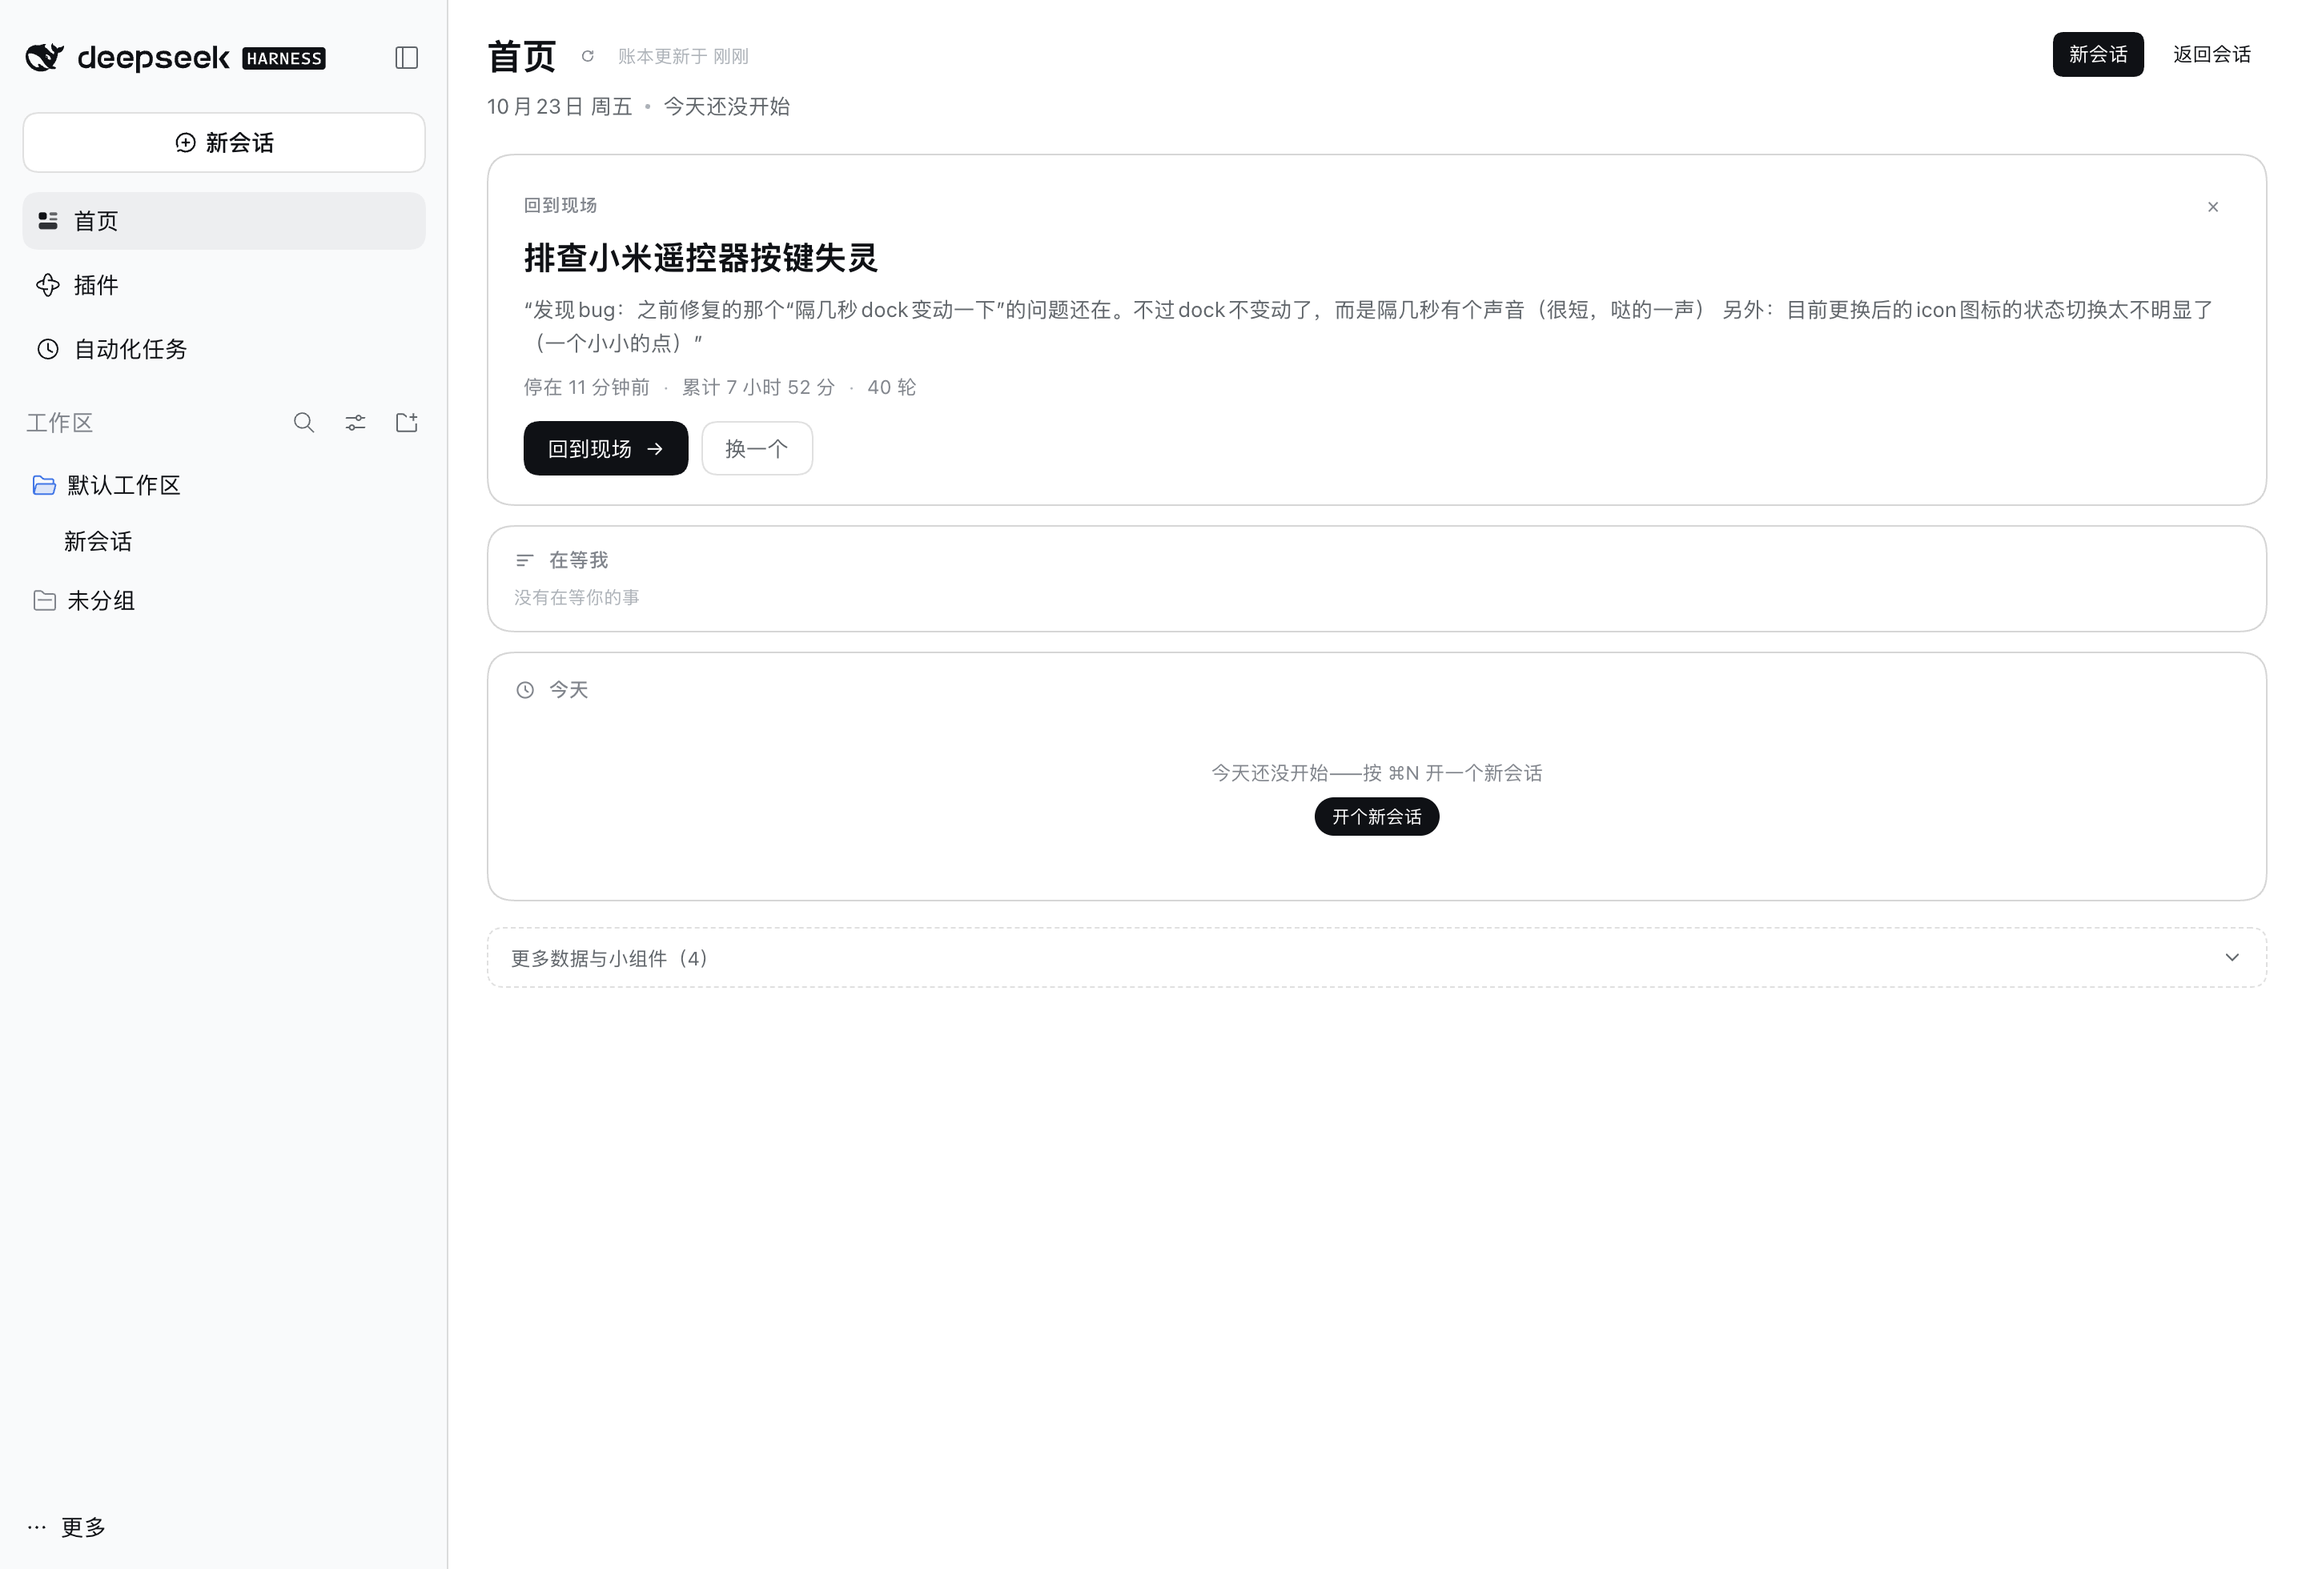
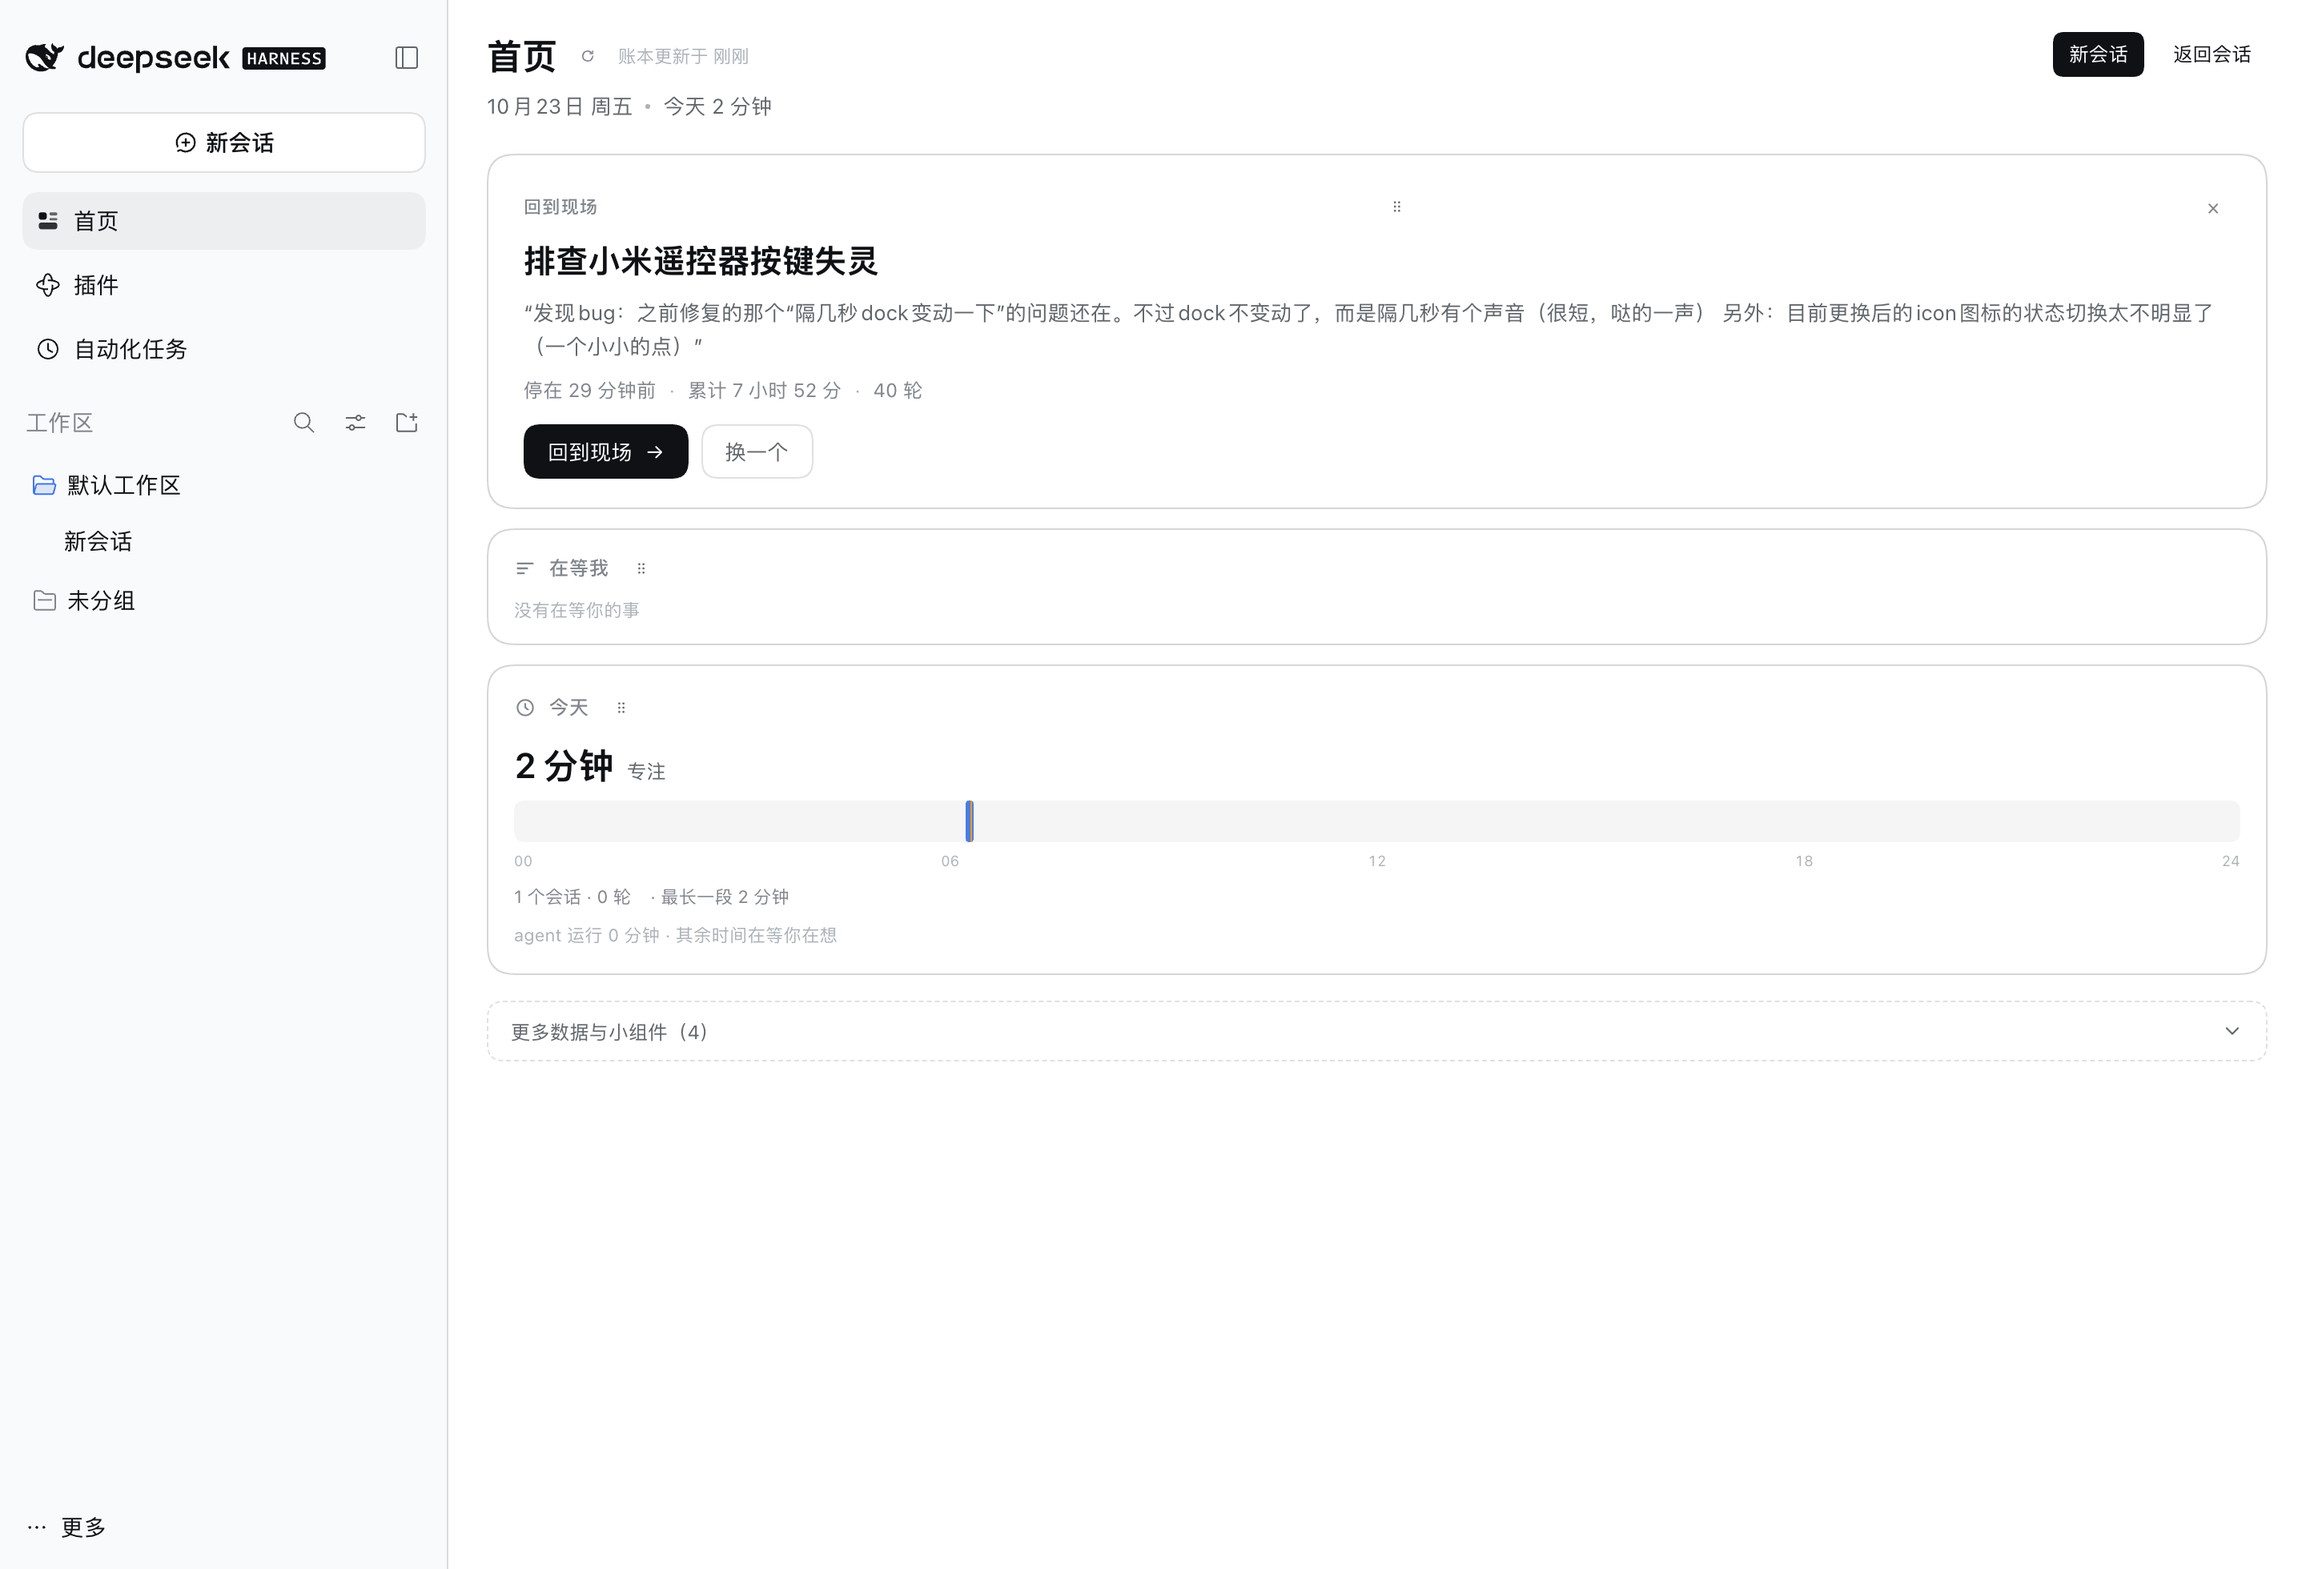
style: 回到现场的把手贴住眉标，不再居中飘着

diff --git a/lib/client.js b/lib/client.js
@@ -2427,7 +2427,8 @@ body.dsh-home-dragging * { cursor: grabbing !important; }
   border: 0.5px solid var(--dsw-alias-settings-card-stroke);
   background: var(--dsw-alias-settings-card-fill);
 }
-.dsh-focus-eyebrow-row { display: flex; align-items: center; justify-content: space-between; gap: 10px; }
+.dsh-focus-eyebrow-row { display: flex; align-items: center; gap: 8px; }
+.dsh-focus-eyebrow-row .dsh-icon-button { margin-left: auto; }
 .dsh-focus-eyebrow {
   font-size: 11px;
   line-height: 16px;

diff --git a/src/client/styles.ts b/src/client/styles.ts
@@ -495,7 +495,8 @@ body.dsh-home-dragging * { cursor: grabbing !important; }
   border: 0.5px solid var(--dsw-alias-settings-card-stroke);
   background: var(--dsw-alias-settings-card-fill);
 }
-.dsh-focus-eyebrow-row { display: flex; align-items: center; justify-content: space-between; gap: 10px; }
+.dsh-focus-eyebrow-row { display: flex; align-items: center; gap: 8px; }
+.dsh-focus-eyebrow-row .dsh-icon-button { margin-left: auto; }
 .dsh-focus-eyebrow {
   font-size: 11px;
   line-height: 16px;
